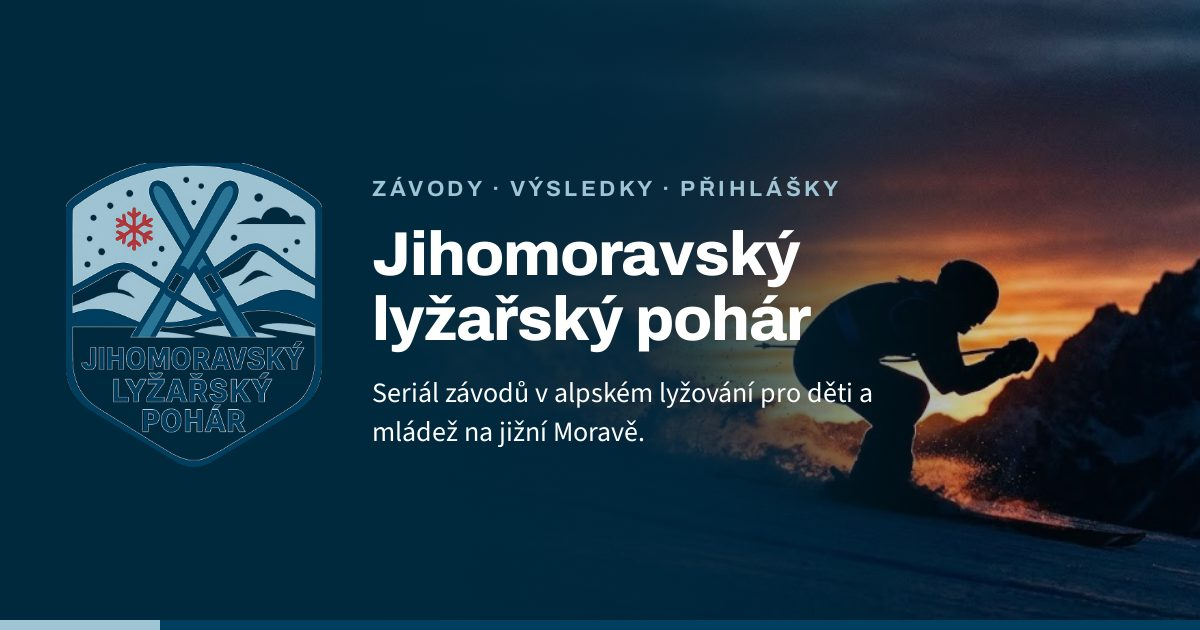
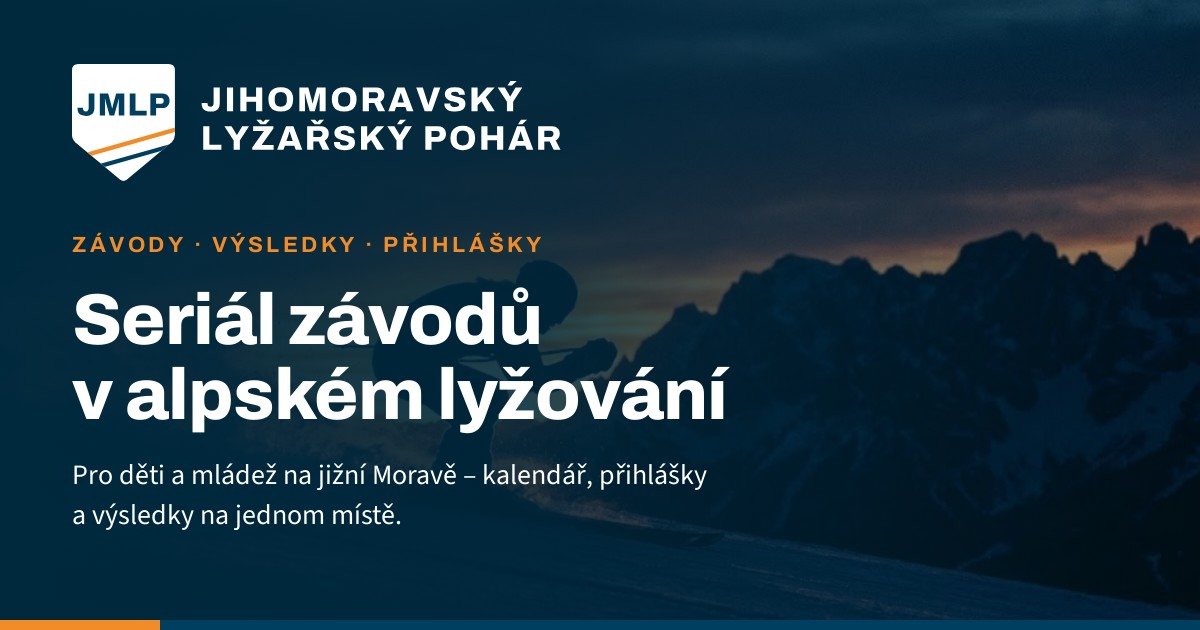
feat(web): nový znak JMLP z designového systému, favikony a náhled odkazu
- hlavička webu: jmlp-znak.svg (44 px, mobil 36 px); na tmavých plochách
  (mobilní menu, patička mobilu, administrace, časomíra, přihlášení)
  jmlp-znak-inverse.svg; starý rastrový znak smazán
- favicon.svg/.ico (16, 32, 48), PNG 16/32, apple-touch-icon 180 na ploše
  stránky, ikony manifestu 192/512 a maskovatelná 512
- og-image.jpg znovu s lockupem jmlp-logo-inverse a pruhem pásky
- service worker: CACHE_NAME v8, kešuje i nové ikony

diff --git a/frontend/public/sw.js b/frontend/public/sw.js
@@ -17,7 +17,7 @@
 //
 // CACHE_NAME se zvedá ručně. Při jeho změně aktivace smaže všechny starší keše,
 // takže se z prohlížečů uklidí i data, která tam nakešovaly starší verze.
-const CACHE_NAME = 'jmlp-shell-v7';
+const CACHE_NAME = 'jmlp-shell-v8';
 const SHELL_URL = '/index.html';
 
 // Náhledy tištěných listin (src/pdf/previewUrl.js). Stránka do téhle keše
@@ -42,8 +42,8 @@ const PREVIEW_PATH = '/pdf-preview/';
  */
 const CACHEABLE_PATHS = [
   /^\/assets\//,
-  /^\/favicon(-\d+x\d+)?\.(ico|png)$/,
-  /^\/apple-touch-icon\.png$/
+  /^\/favicon(-\d+x\d+)?\.(ico|png|svg)$/,
+  /^\/(apple-touch-icon|icon-192|icon-512|icon-maskable-512)\.png$/
 ];
 
 const isCacheable = (pathname) => CACHEABLE_PATHS.some((pattern) => pattern.test(pathname));

diff --git a/frontend/src/test/serviceWorker.test.js b/frontend/src/test/serviceWorker.test.js
@@ -337,7 +337,7 @@ describe('instalace a aktivace', () => {
 
     await lifecycle('activate');
 
-    expect((await worker.caches.keys()).sort()).toEqual(['jmlp-pdf-preview', 'jmlp-shell-v7']);
+    expect((await worker.caches.keys()).sort()).toEqual(['jmlp-pdf-preview', 'jmlp-shell-v8']);
   });
 
   it('aktivace smaže starší keše i s daty, která v nich zůstala', async () => {
@@ -348,7 +348,7 @@ describe('instalace a aktivace', () => {
 
     await lifecycle('activate');
 
-    expect(await worker.caches.keys()).toEqual(['jmlp-shell-v7']);
+    expect(await worker.caches.keys()).toEqual(['jmlp-shell-v8']);
     expect(worker.caches.peek('/races/')).toBeUndefined();
     expect(worker.self.clients.claim).toHaveBeenCalled();
   });

diff --git a/frontend/index.html b/frontend/index.html
@@ -3,7 +3,8 @@
   <head>
     <meta charset="UTF-8" />
     <meta name="viewport" content="width=device-width, initial-scale=1.0" />
-    <link rel="icon" type="image/x-icon" href="/favicon.ico" />
+    <link rel="icon" href="/favicon.ico" sizes="48x48" />
+    <link rel="icon" type="image/svg+xml" href="/favicon.svg" />
     <link rel="icon" type="image/png" sizes="32x32" href="/favicon-32x32.png" />
     <link rel="icon" type="image/png" sizes="16x16" href="/favicon-16x16.png" />
     <link rel="apple-touch-icon" sizes="180x180" href="/apple-touch-icon.png" />

diff --git a/frontend/src/components/timekeeper/TimekeeperLogin/TimekeeperLogin.jsx b/frontend/src/components/timekeeper/TimekeeperLogin/TimekeeperLogin.jsx
@@ -3,7 +3,7 @@ import { Link } from 'react-router-dom';
 import { useTimekeeperAuth } from '../../../config/timekeeperAuth.jsx';
 import { useOnline } from '../../../hooks/useOnline.js';
 import trat from '../../../assets/images/trat.jpg';
-import znak from '../../../assets/images/jmlp_znak_88.png';
+import znak from '../../../assets/images/jmlp-znak-inverse.svg';
 import { Alert, Button, Field, Icon, Input, Paska, PasswordInput } from '../../ms/index.js';
 import { cx } from '../../ms/cx.js';
 import { CUP_NAME, useSeasonInfo } from '../../site/siteInfo.js';

diff --git a/frontend/src/components/admin/AdminLogin/AdminLogin.jsx b/frontend/src/components/admin/AdminLogin/AdminLogin.jsx
@@ -2,7 +2,7 @@ import { useState } from 'react';
 import { Link } from 'react-router-dom';
 import { useAuth } from '../../../config/auth.jsx';
 import trat from '../../../assets/images/trat.jpg';
-import znak from '../../../assets/images/jmlp_znak_88.png';
+import znak from '../../../assets/images/jmlp-znak-inverse.svg';
 import { Alert, Button, Field, Icon, Input, PasswordInput } from '../../ms/index.js';
 import { CUP_NAME, useSeasonInfo } from '../../site/siteInfo.js';
 import styles from './AdminLogin.module.css';

diff --git a/frontend/src/components/site/SiteHeader/SiteHeader.jsx b/frontend/src/components/site/SiteHeader/SiteHeader.jsx
@@ -1,7 +1,7 @@
 import { useState } from 'react';
 import { Link, useLocation } from 'react-router-dom';
 import { useLiveStatus } from '../../../contexts/LiveStatusContext.jsx';
-import znak from '../../../assets/images/jmlp_znak_88.png';
+import znak from '../../../assets/images/jmlp-znak.svg';
 import { Container, IconButton, LivePill } from '../../ms/index.js';
 import { isNavActive, publicLiveNav, publicNav } from '../../ms/navItems.js';
 import MobileMenu from '../MobileMenu/MobileMenu.jsx';

diff --git a/frontend/src/components/site/MobileMenu/MobileMenu.jsx b/frontend/src/components/site/MobileMenu/MobileMenu.jsx
@@ -1,7 +1,7 @@
 import { useEffect, useRef } from 'react';
 import { Link, useLocation } from 'react-router-dom';
 import { useLiveStatus } from '../../../contexts/LiveStatusContext.jsx';
-import znak from '../../../assets/images/jmlp_znak_88.png';
+import znak from '../../../assets/images/jmlp-znak-inverse.svg';
 import { Icon, useDialog } from '../../ms/index.js';
 import { cx } from '../../ms/cx.js';
 import { isNavActive, publicLiveNav, publicNav } from '../../ms/navItems.js';

diff --git a/frontend/src/components/timekeeper/frame/TopBar/TopBar.jsx b/frontend/src/components/timekeeper/frame/TopBar/TopBar.jsx
@@ -1,5 +1,5 @@
 import { Link } from 'react-router-dom';
-import znak from '../../../../assets/images/jmlp_znak_88.png';
+import znak from '../../../../assets/images/jmlp-znak-inverse.svg';
 import { useSeasonInfo } from '../../../site/siteInfo.js';
 import RaceSwitcher from '../RaceSwitcher/RaceSwitcher.jsx';
 import StatusChips from '../StatusChips/StatusChips.jsx';

diff --git a/frontend/src/components/site/SiteFooter/SiteFooter.jsx b/frontend/src/components/site/SiteFooter/SiteFooter.jsx
@@ -1,5 +1,5 @@
 import { Link } from 'react-router-dom';
-import znak from '../../../assets/images/jmlp_znak_88.png';
+import znak from '../../../assets/images/jmlp-znak-inverse.svg';
 import svazLogo from '../../../assets/images/svaz_logo_88.png';
 import { Container } from '../../ms/index.js';
 import { cx } from '../../ms/cx.js';

diff --git a/frontend/src/components/admin/frame/AdminBrand/AdminBrand.jsx b/frontend/src/components/admin/frame/AdminBrand/AdminBrand.jsx
@@ -1,4 +1,4 @@
-import znak from '../../../../assets/images/jmlp_znak_88.png';
+import znak from '../../../../assets/images/jmlp-znak-inverse.svg';
 import { cx } from '../../../ms/cx.js';
 import styles from './AdminBrand.module.css';
 
